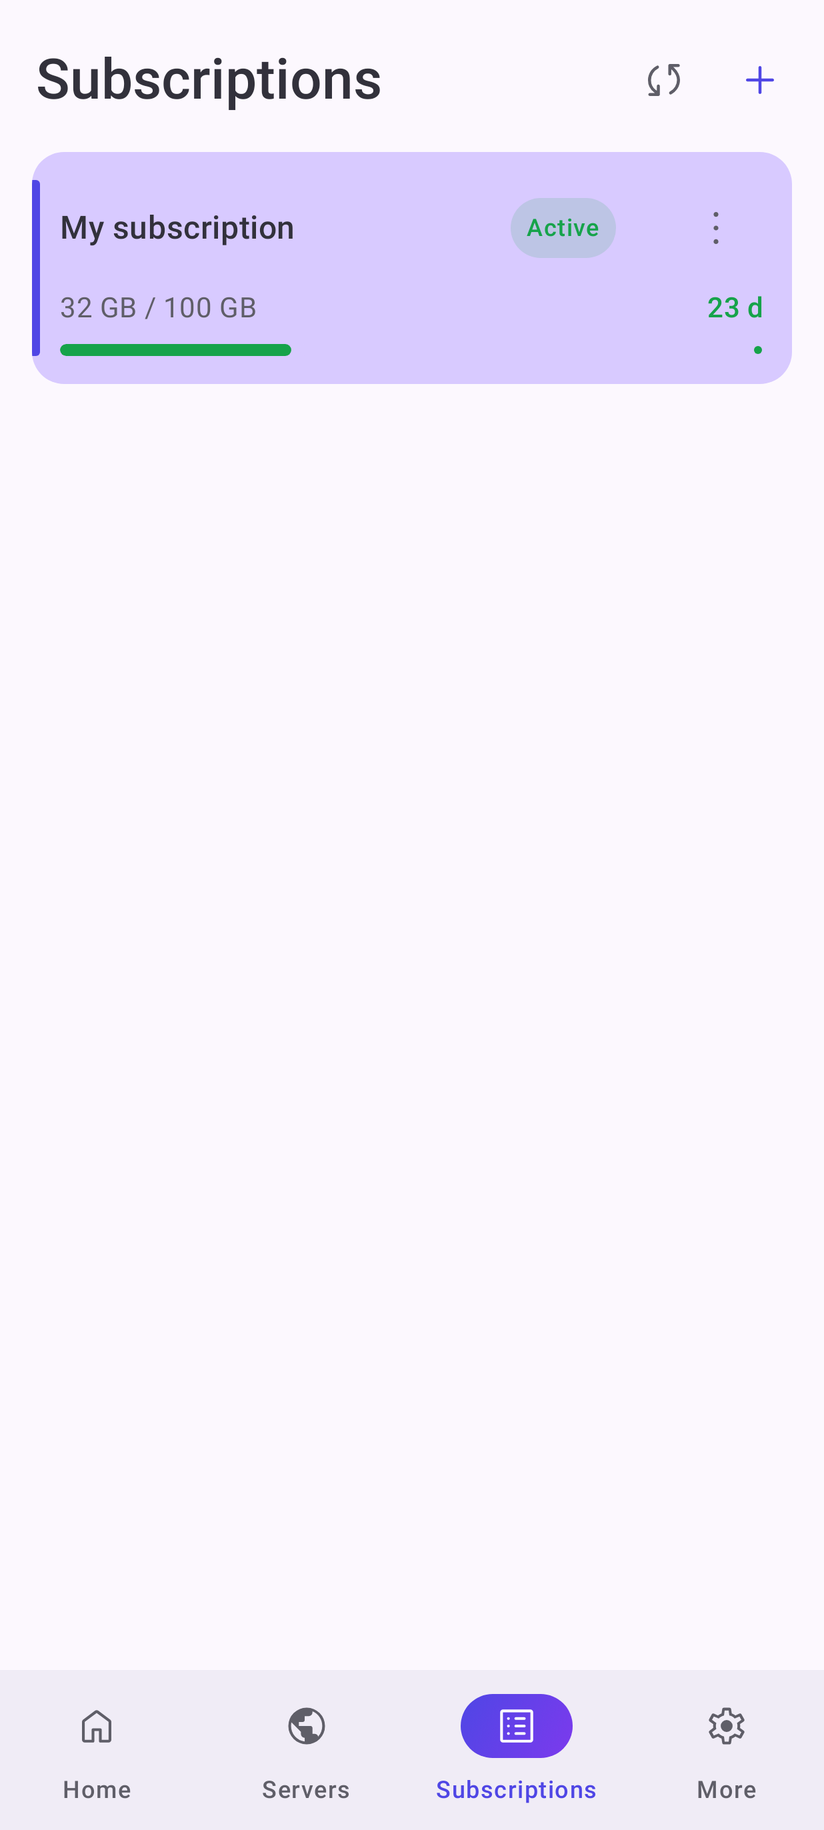
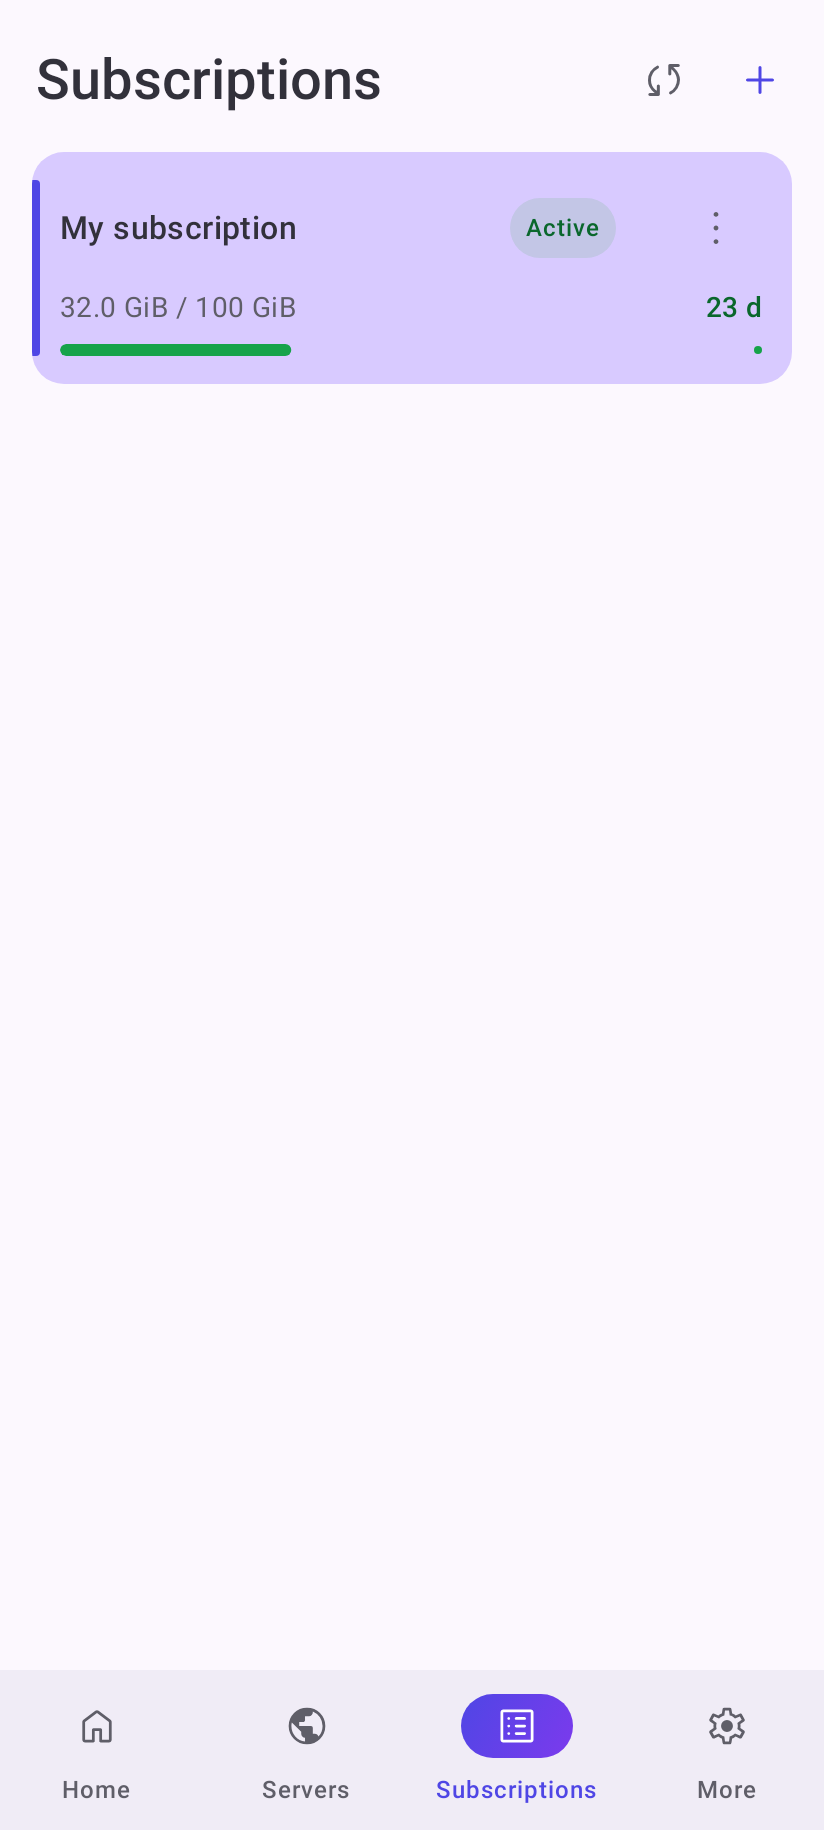
docs(android): скриншоты сайта пересняты модулем, демо-узлы нейтральные
Модуль выставляет язык приложения, поэтому размеры трафика форматируются как на экране (1,40 GiB на русском), и снимает в xhdpi — 824×1830, как на сайте, без ручного ужатия. Объём сессии считается тем же toBytesString, а не зашит строкой.

diff --git a/screenshots/src/test/java/com/github/kr328/clash/screenshots/Screenshots.kt b/screenshots/src/test/java/com/github/kr328/clash/screenshots/Screenshots.kt
@@ -9,7 +9,9 @@ import androidx.compose.ui.Modifier
 import androidx.compose.ui.test.junit4.createComposeRule
 import androidx.compose.ui.test.onRoot
 import androidx.compose.ui.unit.dp
+import com.github.kr328.clash.common.util.AppLocale
 import com.github.kr328.clash.core.model.Proxy
+import com.github.kr328.clash.core.util.toBytesString
 import com.github.kr328.clash.design.compose.component.ConnectionStatus
 import com.github.kr328.clash.design.compose.screen.AddProfileScreen
 import com.github.kr328.clash.design.compose.screen.AddProfileState
@@ -33,6 +35,7 @@ import org.junit.runner.RunWith
 import org.robolectric.RobolectricTestRunner
 import org.robolectric.annotation.Config
 import org.robolectric.annotation.GraphicsMode
+import java.util.Locale
 import java.util.UUID
 import java.util.concurrent.TimeUnit
 
@@ -42,40 +45,22 @@ private const val GIGABYTE = 1024L * 1024 * 1024
 class DemoContent(
     val subscription: String,
     val servers: List<Pair<String, String>>,
-    val downloaded: String,
-    val uploaded: String,
     val source: String = "https://example.com/subscription",
 )
 
 private val russian = DemoContent(
     subscription = "Моя подписка",
-    servers = listOf(
-        "Нидерланды 01" to "Амстердам",
-        "Германия 02" to "Франкфурт",
-        "Финляндия 03" to "Хельсинки",
-        "Швеция 04" to "Стокгольм",
-        "Франция 05" to "Париж",
-    ),
-    downloaded = "1.40 GiB",
-    uploaded = "212 MiB",
+    servers = (1..5).map { "Сервер $it" to "Демо-узел" },
 )
 
 private val english = DemoContent(
     subscription = "My subscription",
-    servers = listOf(
-        "Netherlands 01" to "Amsterdam",
-        "Germany 02" to "Frankfurt",
-        "Finland 03" to "Helsinki",
-        "Sweden 04" to "Stockholm",
-        "France 05" to "Paris",
-    ),
-    downloaded = "1.40 GiB",
-    uploaded = "212 MiB",
+    servers = (1..5).map { "Server $it" to "Demo node" },
 )
 
 @RunWith(RobolectricTestRunner::class)
 @GraphicsMode(GraphicsMode.Mode.NATIVE)
-@Config(sdk = [35], qualifiers = "w412dp-h915dp-xxhdpi")
+@Config(sdk = [35], qualifiers = "w412dp-h915dp-xhdpi")
 abstract class Screenshots(private val locale: String, private val demo: DemoContent) {
     @get:Rule
     val compose = createComposeRule()
@@ -117,8 +102,8 @@ abstract class Screenshots(private val locale: String, private val demo: DemoCon
 
     private fun session(seconds: Long) = SessionStats(
         seconds = seconds,
-        downloaded = demo.downloaded,
-        uploaded = demo.uploaded,
+        downloaded = SESSION_DOWNLOADED.toBytesString(),
+        uploaded = SESSION_UPLOADED.toBytesString(),
     )
 
     private fun state(
@@ -133,6 +118,7 @@ abstract class Screenshots(private val locale: String, private val demo: DemoCon
     )
 
     private fun shoot(name: String, dark: Boolean = false, content: @Composable () -> Unit) {
+        AppLocale.current = Locale.forLanguageTag(locale)
         compose.mainClock.autoAdvance = false
 
         compose.setContent {
@@ -202,11 +188,13 @@ abstract class Screenshots(private val locale: String, private val demo: DemoCon
         private val DELAYS = listOf(74, 96, 118, 143, 165)
 
         private const val SESSION_SECONDS = 3L * 60 * 60 + 12 * 60 + 5
+        private const val SESSION_DOWNLOADED = 1_503_238_554L
+        private const val SESSION_UPLOADED = 212L * 1024 * 1024
     }
 }
 
-@Config(qualifiers = "ru-rRU-w412dp-h915dp-xxhdpi")
+@Config(qualifiers = "ru-rRU-w412dp-h915dp-xhdpi")
 class RussianScreenshots : Screenshots("ru", russian)
 
-@Config(qualifiers = "en-rUS-w412dp-h915dp-xxhdpi")
+@Config(qualifiers = "en-rUS-w412dp-h915dp-xhdpi")
 class EnglishScreenshots : Screenshots("en", english)
